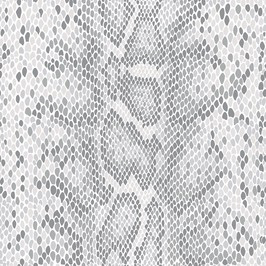
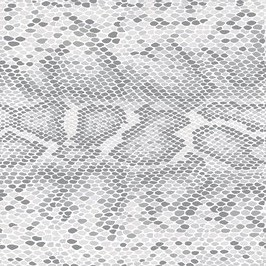
Merge remote-tracking branch 'origin/master'
# Conflicts:
#	.gitignore
#	create_admin.py
#	create_db.py
#	webapp/__init__.py
#	webapp/avito_ads.py
#	webapp/config.py
#	webapp/forms.py
#	webapp/model.py
#	webapp/templates/index.html
#	webapp/templates/login.html

diff --git a/webapp/static/style.css b/webapp/static/style.css
@@ -6,7 +6,9 @@
 #header {
     text-align: center;
     min-height: 8vh;
-    background: url("/static/img/snake2.jpg") repeat;
+    background-image: url("/static/img/snake2.jpg");
+    background-position: left bottom; /* Положение фона */
+    background-repeat: repeat-x; /* Повторяем фон по горизонтали */
     margin: 10px 10px;
     border-radius: 20px
 }
